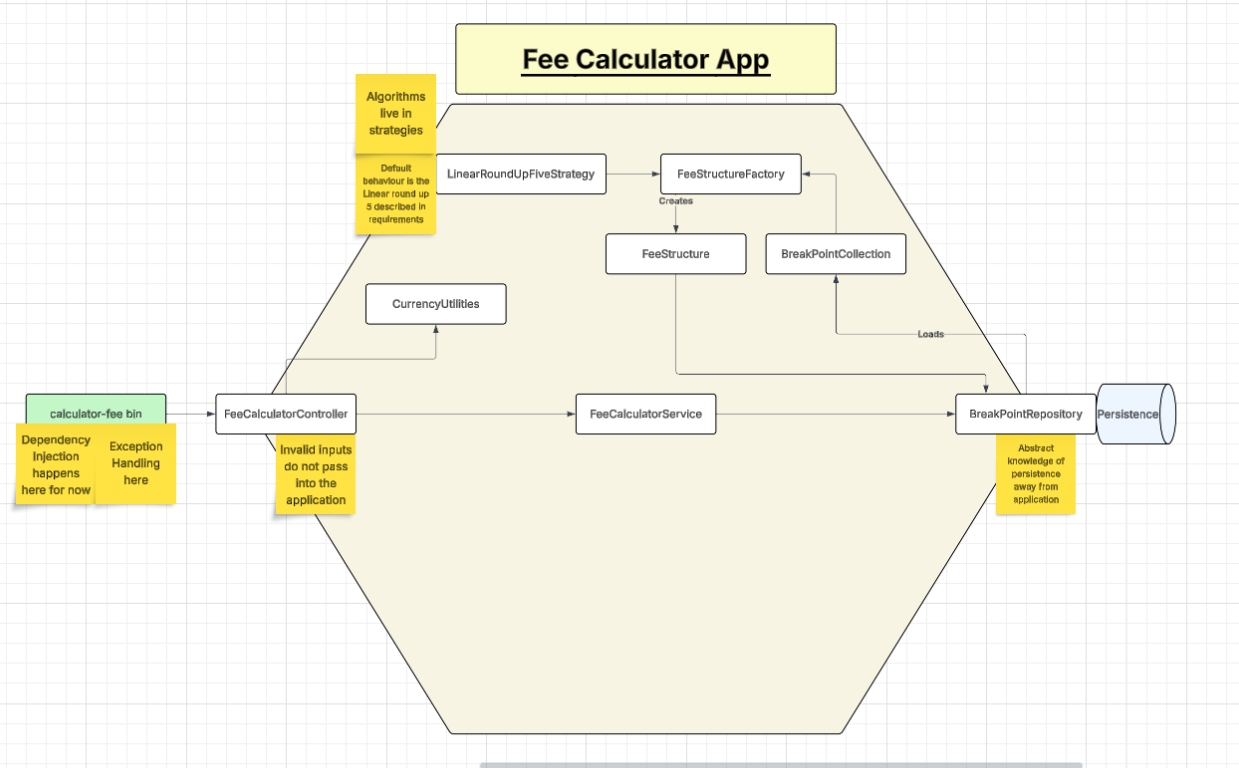
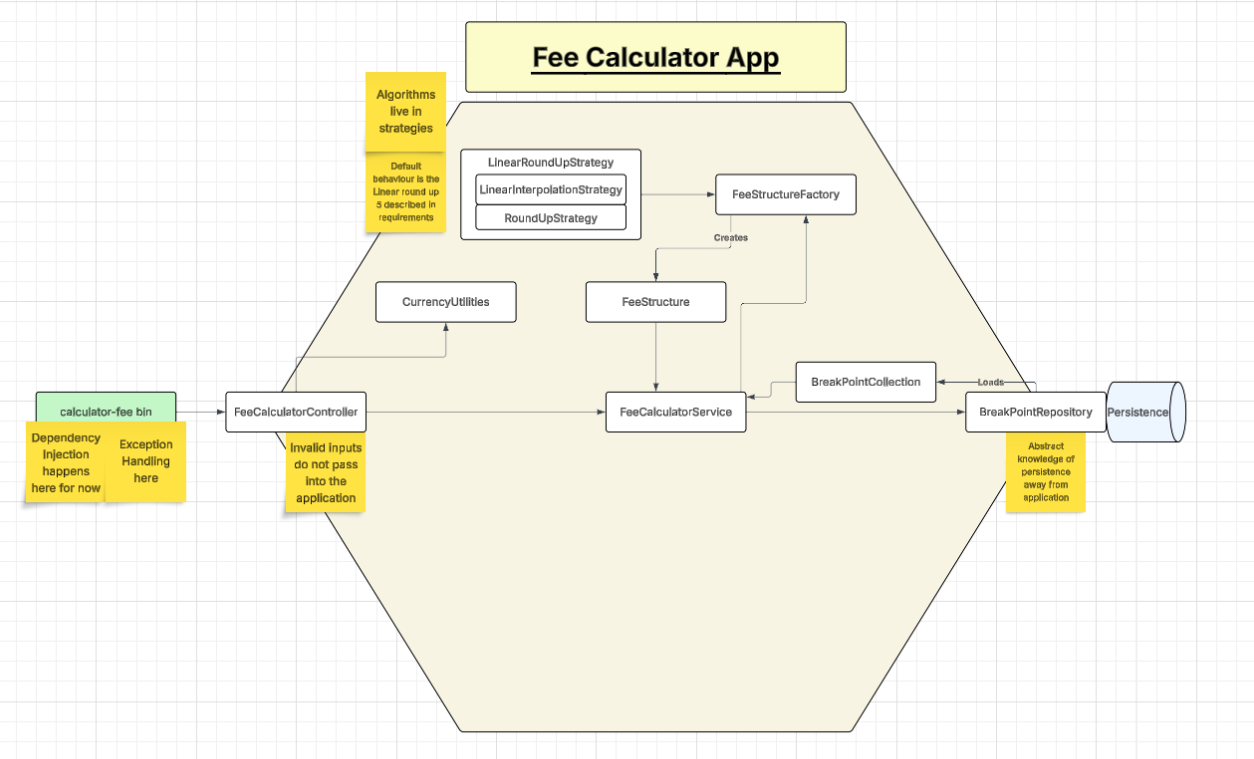
Updating screenies

diff --git a/tests/Strategies/LinearRoundUpStrategyTest.php b/tests/Strategies/LinearRoundUpStrategyTest.php
@@ -5,7 +5,6 @@ declare(strict_types=1);
 namespace Lendable\Interview\Tests\Strategies;
 
 use Lendable\Interview\DomainObjects\TermBreakPointCollectionInterface;
-use Lendable\Interview\Factories\DefaultFeeStructureFactory;
 use Lendable\Interview\Repositories\BreakPointHardCodedRepository;
 use Lendable\Interview\Strategies\LinearRoundUpStrategy;
 use Lendable\Interview\Strategies\LinearStrategy;
@@ -17,8 +16,6 @@ use PHPUnit\Framework\TestCase;
 
 class LinearRoundUpStrategyTest extends TestCase
 {
-
-
     private TermBreakPointCollectionInterface $breakPoints24;
     private TermBreakPointCollectionInterface $breakPoints12;
 
@@ -27,7 +24,7 @@ class LinearRoundUpStrategyTest extends TestCase
     public function setUp(): void
     {
         parent::setUp();
-        $breakPointRepository = new BreakPointHardCodedRepository(new DefaultFeeStructureFactory());
+        $breakPointRepository = new BreakPointHardCodedRepository();
         $this->breakPoints24 = $breakPointRepository->getBreakpointMappingForTerm(
             FeeStructureTermEnum::TwentyFourMonth
         );

diff --git a/tests/DomainObjects/FeeStructureTest.php b/tests/DomainObjects/FeeStructureTest.php
@@ -6,7 +6,6 @@ namespace Lendable\Interview\Tests\DomainObjects;
 
 use Lendable\Interview\DomainObjects\FeeStructure;
 use Lendable\Interview\DomainObjects\TermBreakPointCollectionInterface;
-use Lendable\Interview\Factories\DefaultFeeStructureFactory;
 use Lendable\Interview\Repositories\BreakPointHardCodedRepository;
 use Lendable\Interview\Strategies\FeeResolutionStrategyInterface;
 use Lendable\Interview\Strategies\LinearRoundUpStrategy;
@@ -25,7 +24,7 @@ class FeeStructureTest extends TestCase
     {
         parent::setUp();
 
-        $breakPointRepository = new BreakPointHardCodedRepository(new DefaultFeeStructureFactory());
+        $breakPointRepository = new BreakPointHardCodedRepository();
         $this->breakPoints24 = $breakPointRepository->getBreakpointMappingForTerm(
             FeeStructureTermEnum::TwentyFourMonth
         );

diff --git a/tests/Strategies/RoundUpStrategyTest.php b/tests/Strategies/RoundUpStrategyTest.php
@@ -1,5 +1,7 @@
 <?php
 
+declare(strict_types=1);
+
 namespace Lendable\Interview\Tests\Strategies;
 
 use Lendable\Interview\Strategies\RoundUpToStrategy;
@@ -34,5 +36,11 @@ class RoundUpStrategyTest extends TestCase
     {
         $this->assertEquals(2500, $this->strategy->round(2100));
     }
-    
+
+    public function testRoundsUpToTenIfToldToDoSo(): void
+    {
+        $strategy = new RoundUpToStrategy(10);
+        $this->assertEquals(3000, $strategy->round(2100));
+    }
+
 }

diff --git a/src/Strategies/LinearStrategy.php b/src/Strategies/LinearStrategy.php
@@ -1,5 +1,7 @@
 <?php
 
+declare(strict_types=1);
+
 namespace Lendable\Interview\Strategies;
 
 class LinearStrategy implements InterpolationStrategyInterface

diff --git a/src/Strategies/RoundUpToStrategy.php b/src/Strategies/RoundUpToStrategy.php
@@ -1,5 +1,7 @@
 <?php
 
+declare(strict_types=1);
+
 namespace Lendable\Interview\Strategies;
 
 class RoundUpToStrategy implements RoundingStrategyInterface
